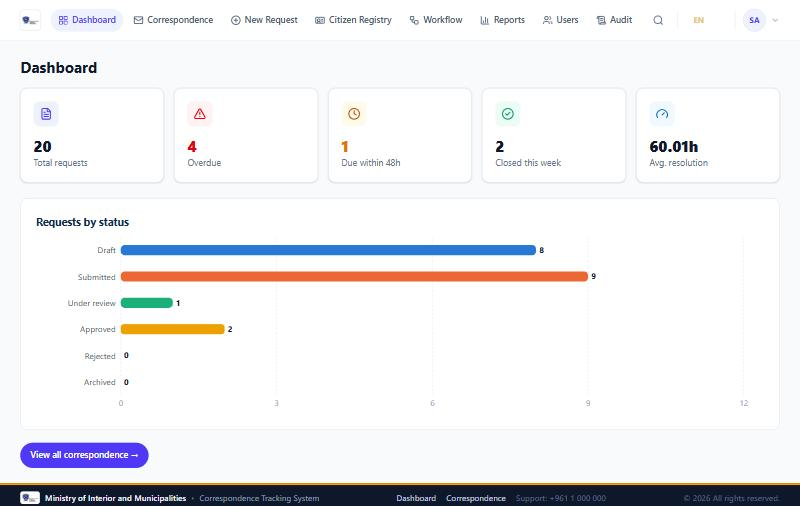
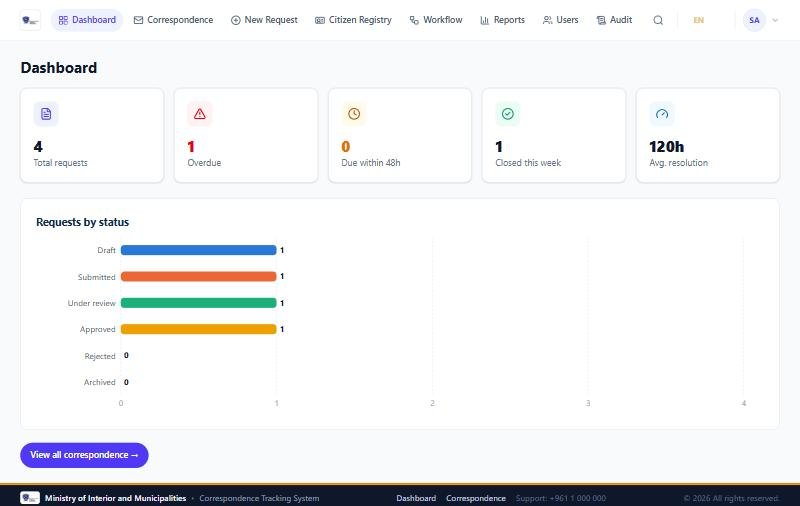
Add milestone log, demo script; retake screenshots on clean data

diff --git a/docs/DEMO_SCRIPT.md b/docs/DEMO_SCRIPT.md
@@ -1,0 +1,63 @@
+# CTS — Live Demo Script (about 10 minutes)
+
+## Before the demo (do this the day before and again 30 minutes before)
+
+1. `docker compose down -v` then `docker compose up --build -d`. This gives the clean seed data: 4 requests, 4 users.
+2. Open **https://localhost:3443** once and accept the certificate warning, so it does not appear in front of the audience.
+3. Check `docker compose ps`: mysql and backend *healthy*, frontend *running*.
+4. Open four browser profiles or private windows, one per role, already signed in: officer, manager, admin, viewer (passwords in `docs/INSTALLATION.md`). Zoom to 110%.
+5. Have `docs/postman/CTS_API_Collection.json` imported in Postman, and a terminal ready with `mvn test` already run (110 tests).
+6. Keep a small `sample.pdf` and a `test.exe` on the desktop for the upload step.
+7. **Backup**: a screen recording of the full run (the 5 UAT screenshots and `docs/screens/manual/` are the fallback if the system fails).
+
+## Story in one sentence
+
+"Every letter the Directorate receives or sends becomes a tracked request with an owner, a deadline, a defined review process, and a permanent audit trail."
+
+## Run of show
+
+| Time | Who | What you do | What you say |
+|---|---|---|---|
+| 0:00 | — | Slide: problem and objectives | Correspondence tracked on paper and spreadsheets: no owner, no deadline, no history. |
+| 1:00 | Officer | Sign in. Show the dashboard: total, **overdue**, due within 48 h, status chart. | One screen tells the officer what is late. |
+| 1:30 | Officer | **Correspondence** list: search "Kanaan", filter status and **Overdue**, press **Export CSV**. | Filters and export are consistent: the CSV contains exactly the filtered rows. |
+| 2:30 | Officer | **New Request**: pick a citizen, document type *Birth Certificate*, direction **Outgoing**, subject "Reply to the Governorate", **Create request**, then **Submit**. | A reference number `CTS-2026-…` and a due date from the document type's SLA are generated automatically. |
+| 4:00 | Manager | Open the request: **Start review**, then **Reject** with an empty comment. | The system refuses: a rejection needs a written reason. |
+| 4:45 | Manager | Reject is cancelled; press **Approve**. | Legal moves and who may make them are read from the workflow catalog, not hard-coded. |
+| 5:30 | Admin | Open the approved request. Try to assign it. | Approved requests cannot be reassigned, and the server enforces it. |
+| 6:00 | Admin | Open an open request (e.g. the *under review* one). **Assign** to the officer with a note; reassign to the manager. Show *Assignment history*. | One current owner, full history. |
+| 6:45 | Admin | **Upload document**: `sample.pdf` succeeds and shows its SHA-256; `test.exe` is refused. | Files are fingerprinted so later tampering is detectable, and only allowed types are accepted. |
+| 7:30 | Admin | Show *Audit trail* and *Activity log* on the request; then **Audit** (global log, login attempts). | Nothing can be edited or deleted: the audit tables are append-only, protected by MySQL triggers. |
+| 8:15 | Manager | **Reports**: breach rate, throughput, by type, by office. | Live figures, no spreadsheet. |
+| 8:45 | Viewer | Sign in: no **New Request**, no Reports, no Users. Open a request: no action buttons. | Four roles over twelve permissions, enforced on the server and mirrored in the interface. |
+| 9:15 | Any | Press **EN** to switch to Arabic. | Full right-to-left Arabic interface. |
+| 9:30 | Terminal | Show `mvn test`: 110 passed; newman 44 requests, 51 assertions; UAT table. | Tested at API, component and user-acceptance level. |
+| 10:00 | — | Slide: deviations and future work. | Honest limits (below). |
+
+## Honest limits to state before they are asked
+
+- One backend service (modular monolith), not separate microservices, to keep the system deployable and testable by a two-person team.
+- No database replica and no scheduled backup in this deployment; the design describes both.
+- The demo certificate is self-signed.
+- User acceptance was run by the team, not by Ministry staff.
+- Accounts cannot be deleted or deactivated from the interface yet.
+
+## Likely questions
+
+| Question | Short answer |
+|---|---|
+| How is access controlled? | Four roles map to 12 permission codes in a JWT; every endpoint checks them server-side; the UI hides what you cannot do. |
+| What stops someone editing the audit log? | Entities are immutable, repositories have no delete, and MySQL triggers reject UPDATE and DELETE. |
+| How do you know a file was not changed? | SHA-256 stored at upload; verified in tests against the downloaded bytes. |
+| What happens when a deadline passes? | The state is computed live; a daily job records MET or BREACHED and raises notifications. |
+| Why Spring Boot and React? | The proposal's stack; the earlier Flask prototype is preserved at tag `v1.0-flask-mysql`. |
+| What would you do next? | Backups and replication, account deactivation, Ministry-run acceptance testing, notifications by email. |
+
+## If something goes wrong
+
+| Problem | Recovery |
+|---|---|
+| Page will not load | `docker compose logs backend`; if needed, `docker compose restart backend` (about 30 s). |
+| Login locked | Wait 15 minutes, or use another demo account. |
+| Data looks wrong | Reset with `docker compose down -v && docker compose up --build -d` (about 2 minutes) while talking through the slides. |
+| Total failure | Play the recording; walk the screenshots in `docs/screens/`. |

diff --git a/docs/MILESTONES.md b/docs/MILESTONES.md
@@ -1,0 +1,33 @@
+# CTS — Project Milestone Log
+
+Source: the git history of `github.com/amro123567/Ministry-of-Interior` (branch `spring-rewrite`), 15 September to 9 October 2026, plus the project plan (CPP work-breakdown structure).
+
+## Timeline
+
+| Phase (CPP WBS) | Dates | Milestone | Evidence (commit message) |
+|---|---|---|---|
+| 1.0 Requirements and 2.0 Design | 15–17 Sep | Repository created; ERD for the civil-status registry; first working prototype (Flask) with the agreed database design and a bilingual Arabic/English interface with right-to-left layout and a data-driven dashboard | "Add ERD schema for civil status registry"; "Updated MVP with the exact database design and enhanced UI"; "UI/UX overhaul: bilingual AR/EN with RTL…" |
+| 3.0 Development | 18 Sep | MySQL migration, schema hardening, role-based access control, first tests | "MySQL migration, schema hardening, RBAC, tests, cleanup" |
+| 3.0 Development / 5.0 Deployment | 19 Sep | **Rewrite to the proposal's stack** (Spring Boot + React); Flask prototype preserved at tag `v1.0-flask-mysql`; Docker Compose; Postman collection; audit logging; SLA tracking; assignment history; HTTPS | "Remove Flask/Python prototype…; add Docker Compose setup"; "Add Postman collection, AOP audit logging, SLA tracking, assignment history, and HTTPS fixes" |
+| 3.0 Development | 20 Sep | Full-requirements migration: documents with seven certificate subtypes, citizen registry, workflow engine, SLA records and payments, three-tier audit, sessions, permission-based RBAC; matching front-end screens | "Full-requirements migration (Items 1-8) + permission-based RBAC + frontend integration pass" |
+| 6.0 Documentation | 21 Sep | Repository cleanup; Software Design Document updated | "Update SDD" |
+| 3.0 / 4.0 Hardening | 2–3 Oct | Gap closure against the requirements: write-access limited to workflow roles (viewer is read-only); incoming/outgoing direction, subject and department routing; list filters; readable references `CTS-YYYY-NNNNNN`; append-only audit tables with MySQL triggers; closed requests cannot be assigned; workflow catalog drives transitions; document validation and physical-custody records (FR-11); document-type authority catalog (FR-05) | 20 commits on 3 Oct, see `git log` |
+| 4.0 Testing and Validation | 9 Oct | CSV export honours filters; non-fatal reference migration; audit rows for seeded data; Postman collection with assertions on every request (44 requests, 51 assertions, run with newman); 12 front-end component tests; 10 user-acceptance scenarios (one defect found and fixed: executable uploads were accepted) | commits of 9 Oct; `docs/UAT.md` |
+| 6.0 Documentation | 9 Oct | README refresh, installation guide, user manual with real screenshots | "Add installation guide, user manual with screenshots" |
+
+## Test status at the last milestone
+
+| Layer | Result |
+|---|---|
+| Backend (JUnit, in-memory H2) | 110 tests, 0 failures |
+| API (Postman / newman) | 44 requests, 51 assertions, 0 failed |
+| Front end (Vitest + Testing Library) | 12 tests, 0 failures |
+| User acceptance | 10 scenarios, all pass after one fix (`docs/UAT.md`) |
+
+## Remaining
+
+Final report, slide deck, demo script (`docs/DEMO_SCRIPT.md`), refreshed poster. Documented deviations from the proposal that are not planned: single backend service instead of microservices; no database replica or scheduled backup.
+
+## Team and collaboration
+
+*To be completed with the team member's details:* who contributed what, the dates of the working meetings, and the decisions taken in them. All source commits come from one workstation; contribution by the second team member took place in meetings and is recorded here, not in the commit history.
